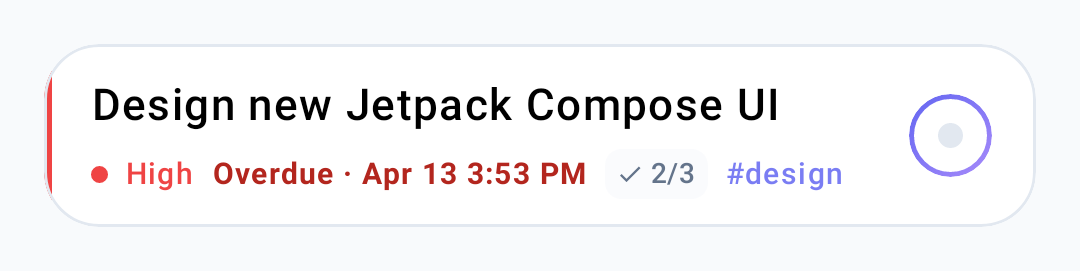
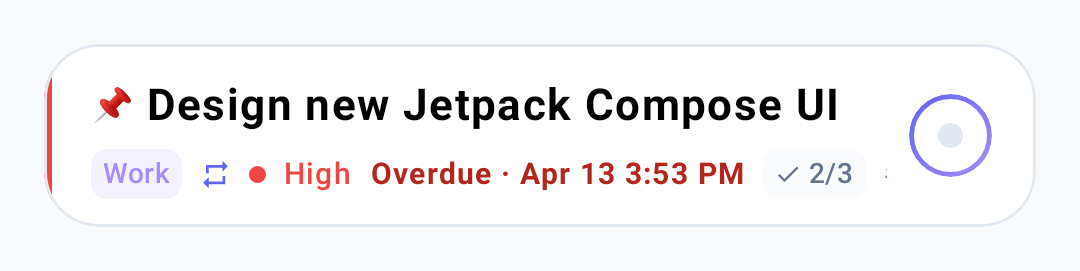
Update README preview screenshots with category carousel, pinned tasks, and full-screen inline add

Changed region(s): [[0.0611, 0.3247, 0.7944, 0.4723], [0.0611, 0.5904, 0.7944, 0.7085]]

diff --git a/app/src/test/java/io/mns/base/app/ui/screenshot/ComposeScreenshotsTest.kt b/app/src/test/java/io/mns/base/app/ui/screenshot/ComposeScreenshotsTest.kt
@@ -57,6 +57,9 @@ class ComposeScreenshotsTest {
             priority = io.mns.base.app.data.Priority.HIGH,
             dueDate = 1713020000000L,
             tags = listOf("design", "compose"),
+            isPinned = true,
+            category = "Work",
+            repeatInterval = io.mns.base.app.data.RepeatInterval.WEEKDAYS,
             subtasks = listOf(
                 io.mns.base.app.data.Subtask("s1", "Create Figma design tokens", isDone = true),
                 io.mns.base.app.data.Subtask("s2", "Build Material 3 top bars & chips", isDone = true),
@@ -69,6 +72,7 @@ class ComposeScreenshotsTest {
             title = "Implement Roborazzi Screenshot tests",
             priority = io.mns.base.app.data.Priority.MEDIUM,
             tags = listOf("testing"),
+            category = "Work",
             subtasks = listOf(
                 io.mns.base.app.data.Subtask("s4", "Record golden baseline images", isDone = true)
             )
@@ -77,7 +81,8 @@ class ComposeScreenshotsTest {
             id = "3",
             createdAt = 1713000000000L + 10000L,
             title = "Review pull request changes",
-            priority = io.mns.base.app.data.Priority.LOW
+            priority = io.mns.base.app.data.Priority.LOW,
+            category = "Personal"
         )
     )
 
@@ -96,12 +101,13 @@ class ComposeScreenshotsTest {
             description = "Setup libs.versions.toml and targetSdk 36",
             priority = io.mns.base.app.data.Priority.HIGH,
             tags = listOf("build"),
+            category = "Work",
             subtasks = listOf(
                 io.mns.base.app.data.Subtask("s5", "Update AGP to 8.7.3", isDone = true),
-                io.mns.base.app.data.Subtask("s6", "Configure Room SQLite v4", isDone = true)
+                io.mns.base.app.data.Subtask("s6", "Configure Room SQLite v5", isDone = true)
             )
         ),
-        DoneItem("d2", 1712800000000L, "Setup Room persistence database", priority = io.mns.base.app.data.Priority.MEDIUM)
+        DoneItem("d2", 1712800000000L, "Setup Room persistence database", priority = io.mns.base.app.data.Priority.MEDIUM, category = "Personal")
     )
 
     @Before
@@ -144,6 +150,7 @@ class ComposeScreenshotsTest {
             MTodoTheme(darkTheme = false) {
                 HomeScreenContent(
                     sections = sampleSections,
+                    availableCategories = listOf("Work", "Personal", "Ideas"),
                     initialFabVisible = true
                 )
             }
@@ -326,6 +333,7 @@ class ComposeScreenshotsTest {
             MTodoTheme(darkTheme = false) {
                 HomeScreenContent(
                     sections = sampleSections,
+                    availableCategories = listOf("Work", "Personal", "Ideas"),
                     initialFabVisible = true,
                     initialIsAdding = true
                 )
